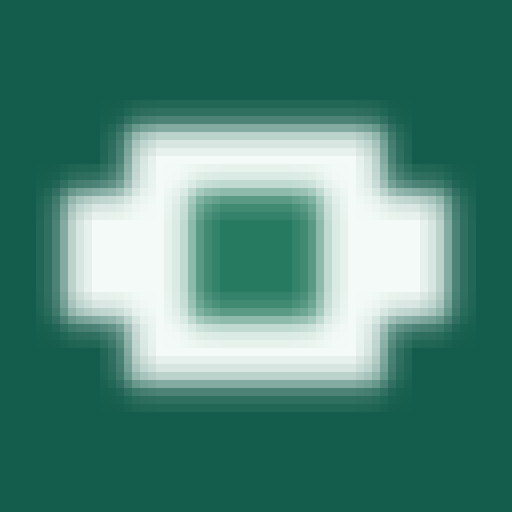
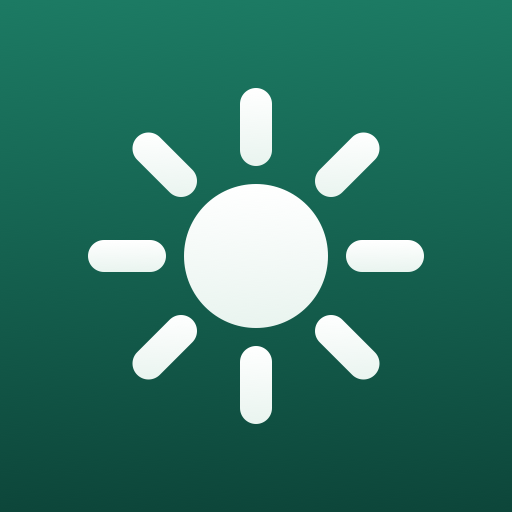
feat: 파비콘과 PWA 아이콘을 밝기 마크로 교체
저해상도 파비콘을 키워 쓰던 아이콘을 밝기(해) 기호 하나로 다시 그렸다.
- icons/icon.svg 원본, favicon.svg(탭용), apple-touch-icon 180x180 추가
- index.html 아이콘 링크와 서비스 워커 앱 셸 목록 갱신

diff --git a/index.html b/index.html
@@ -12,7 +12,9 @@
     <title>Wakeup — PC와 Mac 화면 절전 방지</title>
     <link rel="canonical" href="https://wakeup.subproject.kr/">
     <link rel="manifest" href="./manifest.webmanifest">
-    <link rel="icon" href="./icons/icon-192.png" type="image/png">
+    <link rel="icon" href="./favicon.svg" type="image/svg+xml">
+    <link rel="icon" href="./icons/icon-192.png" sizes="192x192" type="image/png">
+    <link rel="apple-touch-icon" href="./icons/apple-touch-icon.png">
     <link rel="stylesheet" href="./styles.css">
     <script src="./app.js" defer></script>
   </head>

diff --git a/sw.js b/sw.js
@@ -1,14 +1,16 @@
 "use strict";
 
-const CACHE_NAME = "wakeup-app-v6";
+const CACHE_NAME = "wakeup-app-v7";
 const APP_SHELL = [
   "./",
   "./index.html",
   "./styles.css",
   "./app.js",
   "./manifest.webmanifest",
+  "./favicon.svg",
   "./icons/icon-192.png",
-  "./icons/icon-512.png"
+  "./icons/icon-512.png",
+  "./icons/apple-touch-icon.png"
 ];
 
 self.addEventListener("install", (event) => {
